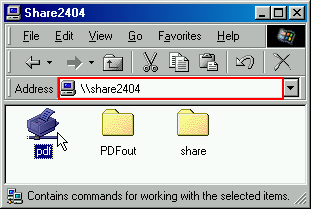
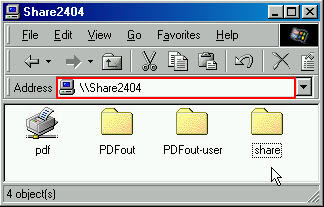
Add more descriptions about share printer and folders
* Replace picture which is same smb.conf settings.

diff --git a/readme.md b/readme.md
@@ -216,6 +216,30 @@ explore server `\\share2404`.
 
 ![Explore Samba share server](medias/open-share-server.png)
 
+Above picture shows one PDF printer and three share folders.
+
++ pdf
+  + Virtual PDF printer
++ PDFout
+  + Output files printed from pdf printer.
+  + Anyone can access.
++ PDFout-user
+  + Output files printed from pdf printer.
+  + Only user who logon Samba server can access.
+    + Add the user to Linux.
+    + Add the user to Samba.
+    + Setup spool directory /var/spool/cups-pdf/%u
+      + See the PDFout-user section in
+        [smb.conf](./examples/cups-pdf-share/root/usr/local/samba/lib/smb.conf)
+        and the (Out) key [cups-pdf.conf](./examples/cups-pdf-share/root/etc/cups/cups-pdf.conf)
++ share
+  + Public share folder.
+  + Anyone can access.
+    + Be careful, Logging on Windows as an user, and
+      the user is added to Samba and Linux.
+      Create a private share folder and setup
+      the smb.conf for the user.
+
 > [!TIP]
 > Shared printer(s) and folder(s) may vary according to your smb.conf.
 
